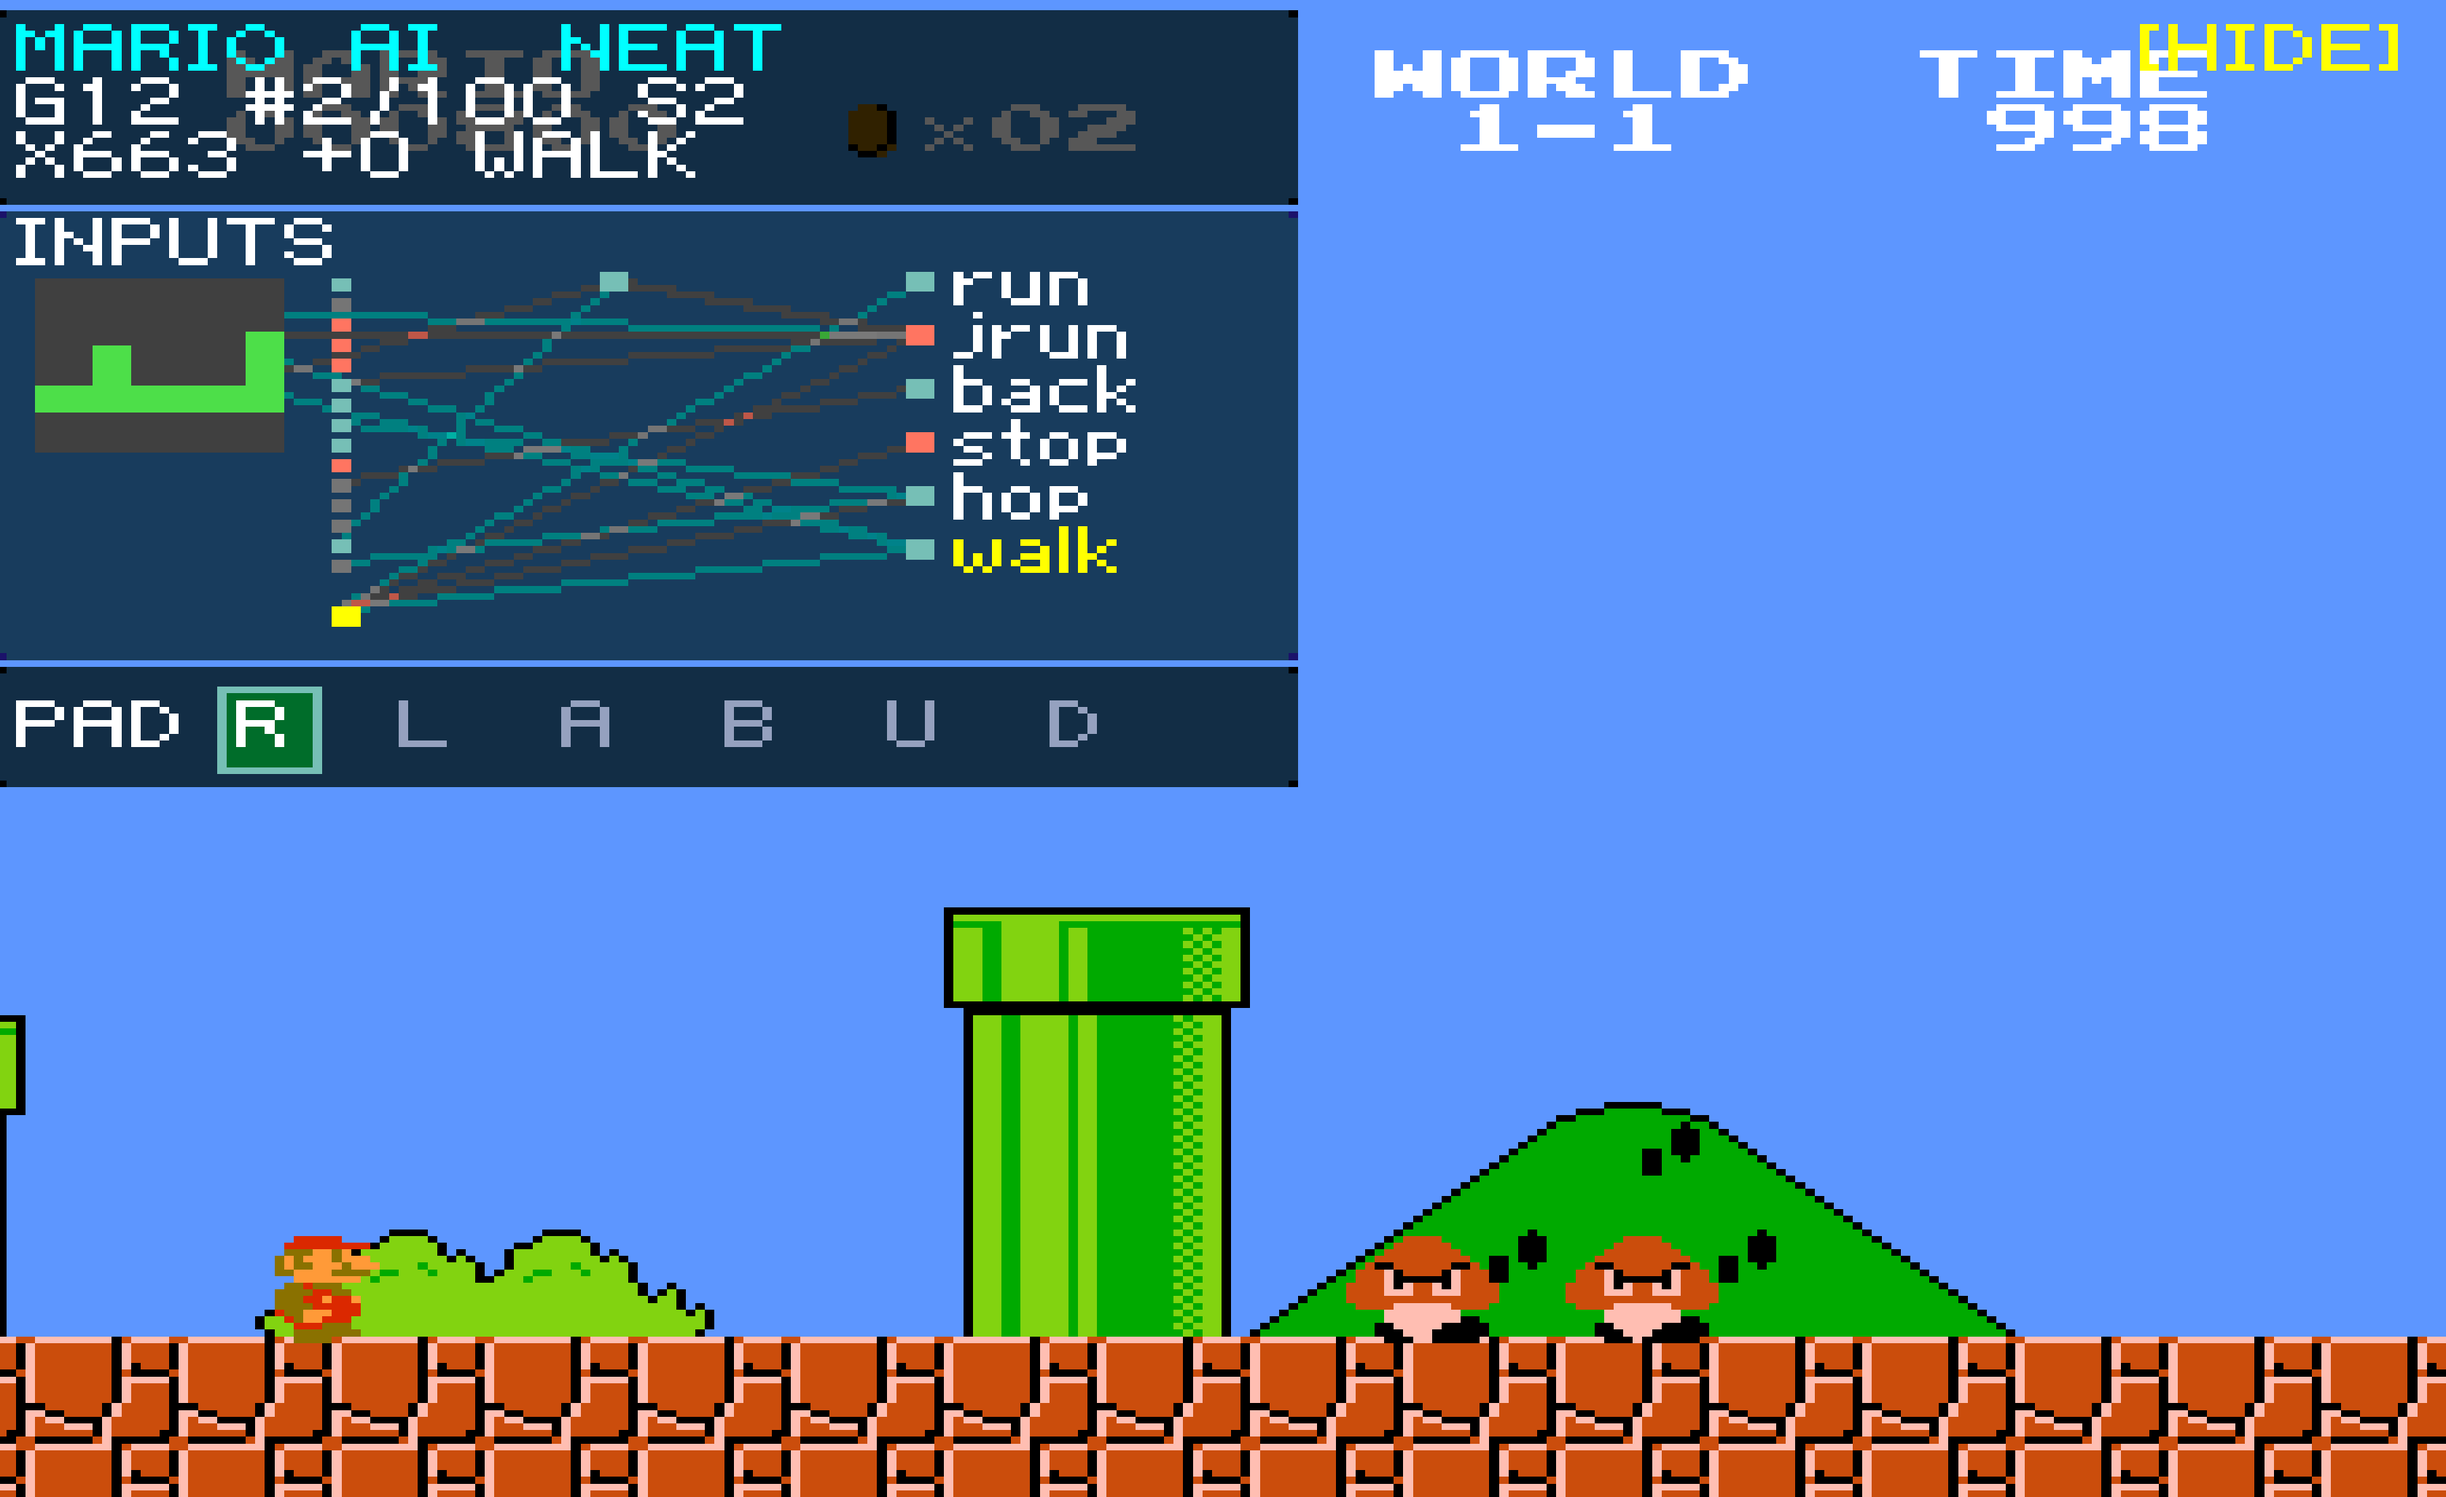
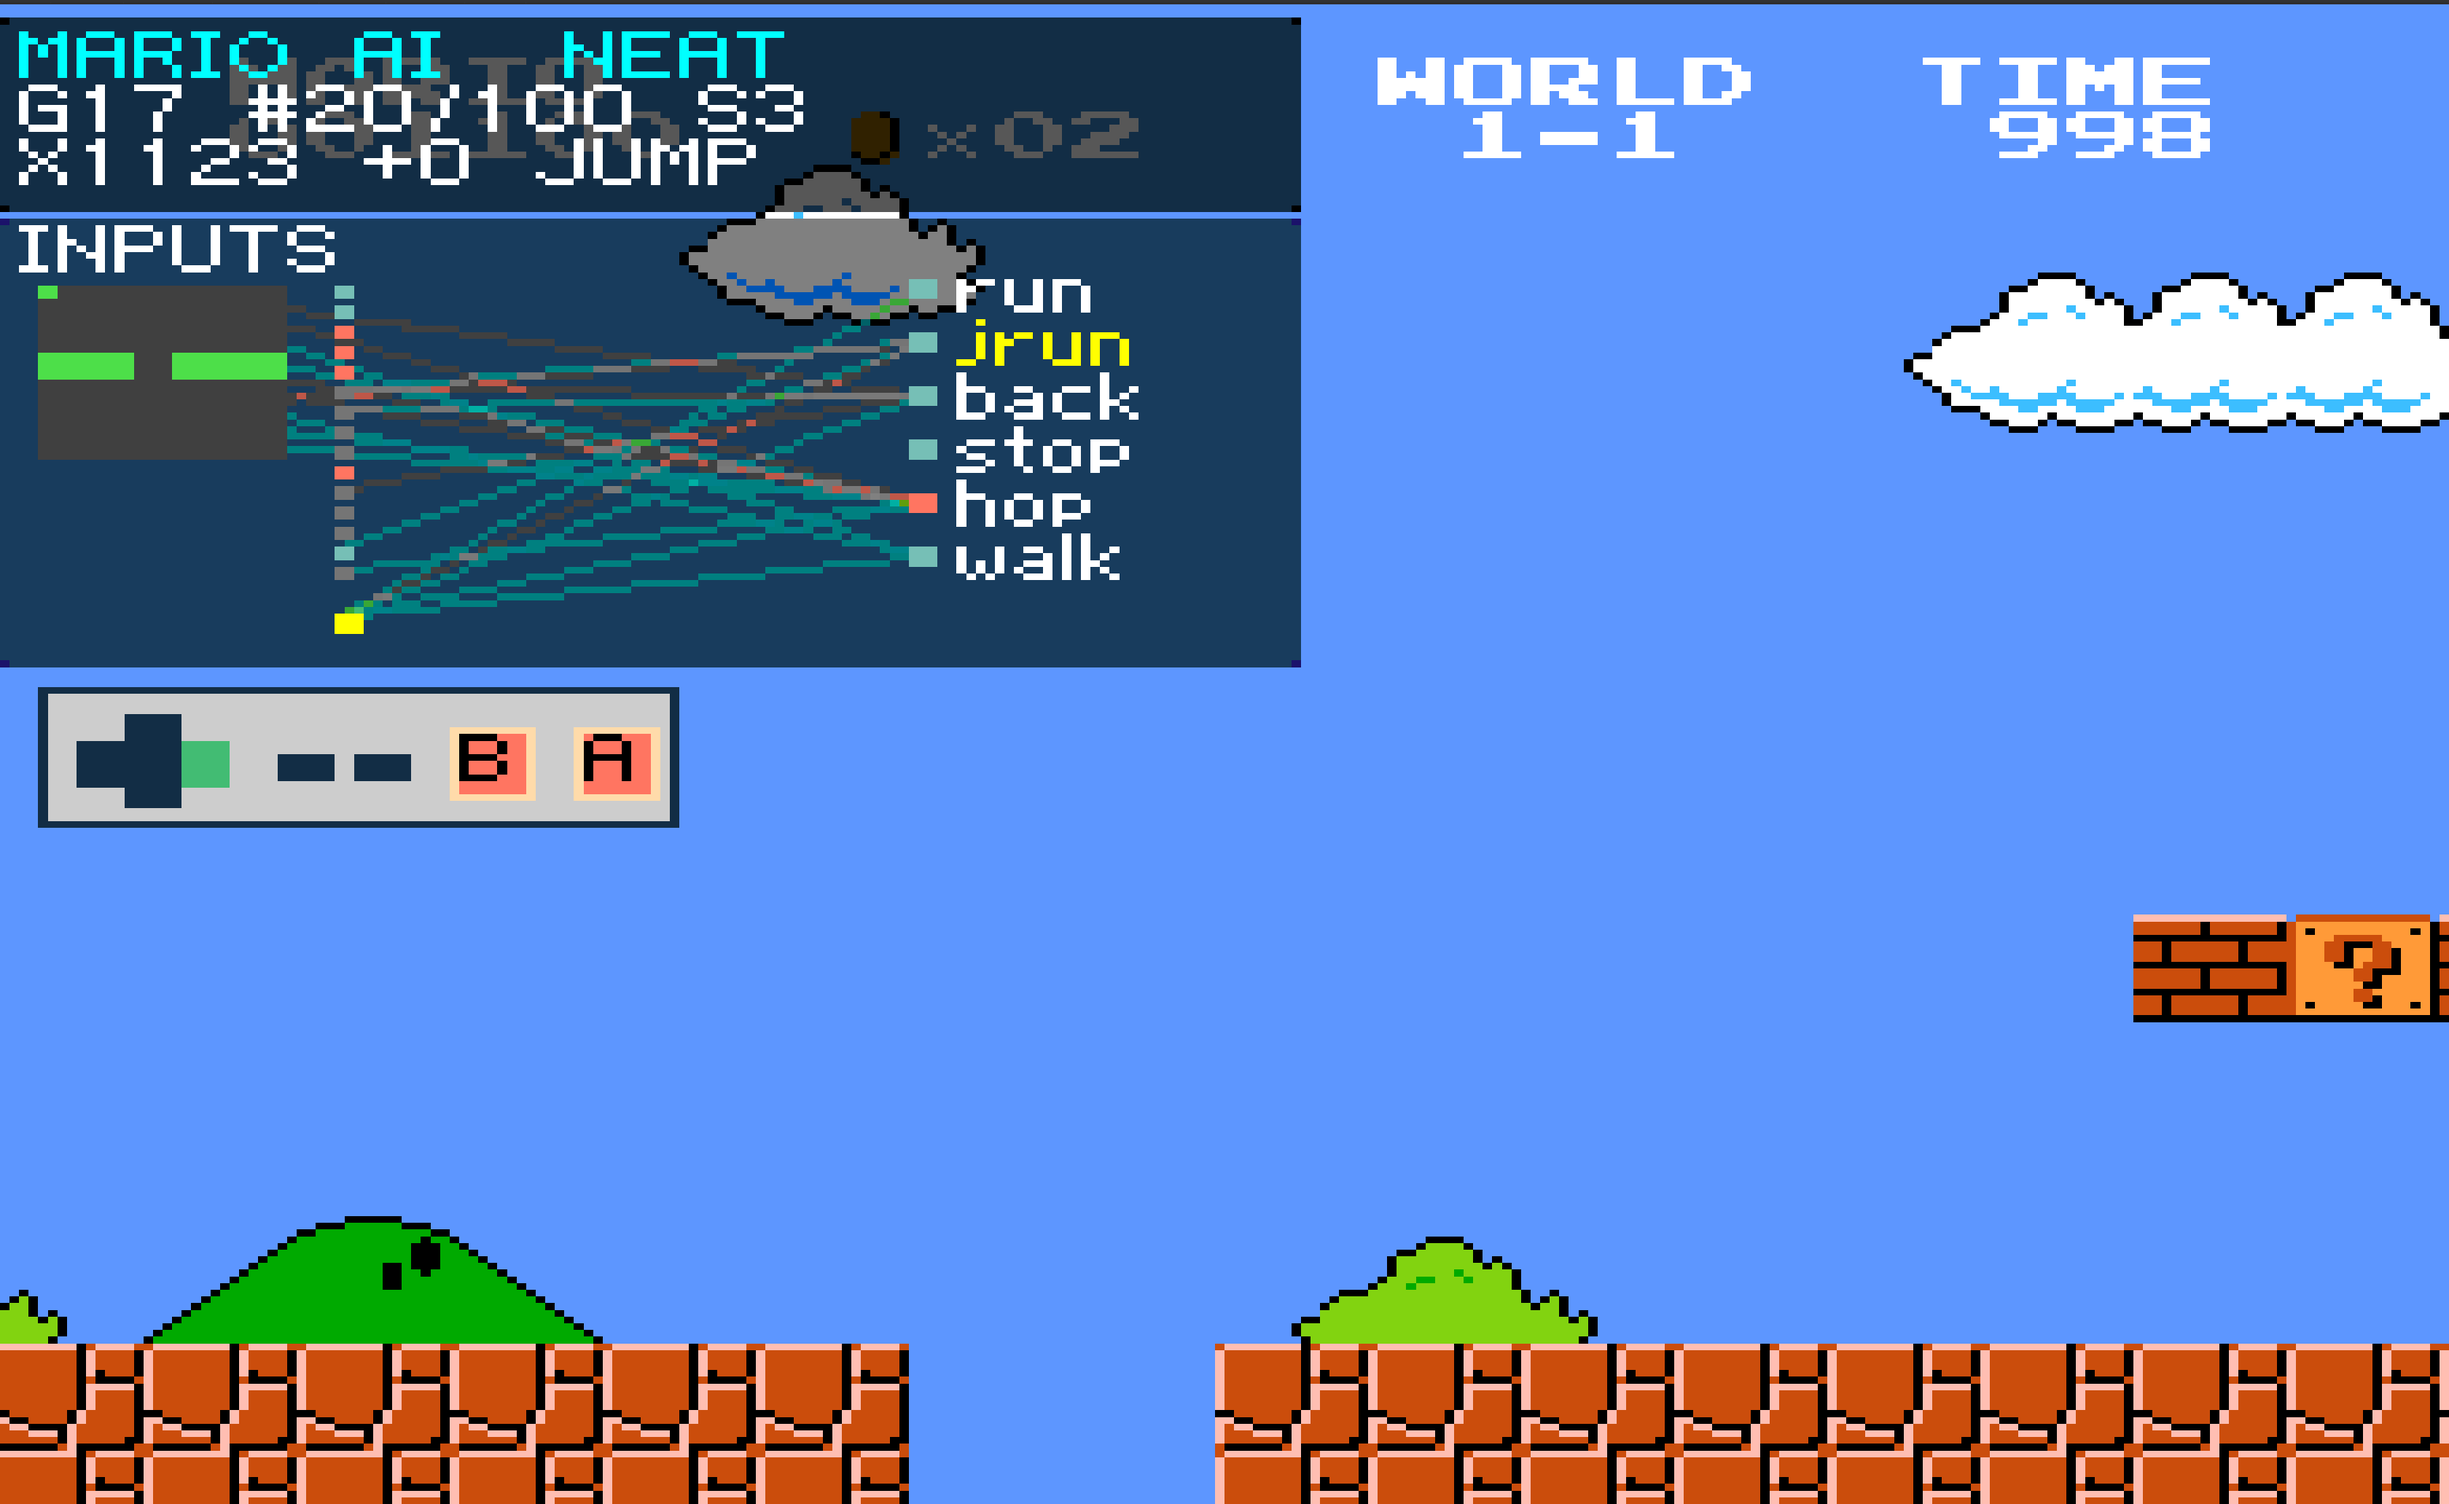
docs: show compact NES controller and recovery behavior

diff --git a/README.md b/README.md
@@ -6,9 +6,9 @@ An AI that learns to play **Super Mario Bros. 1 for NES in FCEUX**. It uses NEAT
 
 ## See it in action
 
-![Mario AI NEAT playing Super Mario Bros. 1 in FCEUX, with its live neural network and controller display](docs/images/mario-ai-neat-training.png)
+![Mario AI NEAT playing Super Mario Bros. 1 in FCEUX, with a live neural network and mini NES controller](docs/images/mario-ai-neat-training.png)
 
-*Mario AI playing SMB1 in FCEUX. The compact overlay shows the active genome, nearby input grid, network connections, selected action, and controller buttons while the game remains visible.*
+*Mario AI playing SMB1 in FCEUX. The compact overlay shows the active genome, nearby input grid, network connections, selected action, and a mini NES controller while the game remains visible.*
 
 Click the video thumbnail to watch SethBling's MarI/O video. MarI/O plays Super Mario World; this project targets SMB1 in FCEUX.
 
@@ -49,7 +49,9 @@ flowchart LR
 
 ### Resume training
 
-The included `mario_ai_neat.db` is the current population checkpoint. Keep it beside `mario_ai_neat.lua`, load the SMB1 ROM, then start the Lua script in FCEUX. It automatically loads the population and continues training. The script uses this exact filename; it does not automatically find `mario_ai_heaven_neat.db` or other database names.
+The included `mario_ai_neat.db` is a generation 35 population checkpoint. Keep it beside `mario_ai_neat.lua`, load the SMB1 ROM, then start the Lua script in FCEUX. It automatically loads the population and continues training. The script uses this exact filename; it does not automatically find `mario_ai_heaven_neat.db` or other database names.
+
+If the log says `discarded unsafe training start`, the saved FCEUX slot was too close to a death. The AI leaves that slot, waits for Mario's normal respawn, and records a new start. It does not press Start or score that short failed attempt. If the game remains on a title or game-over screen, start the game manually; the AI never presses Start for you.
 
 To use a checkpoint with a different name, stop the Lua script, back up the checkpoint, and copy it beside the Lua file as `mario_ai_neat.db`. Do not replace the database while the script is running.
 
